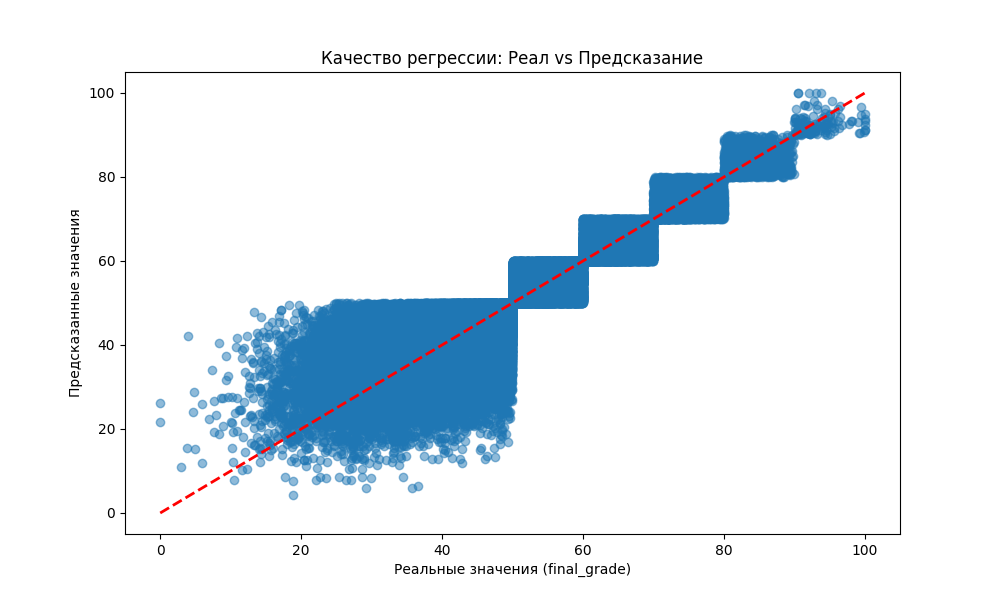
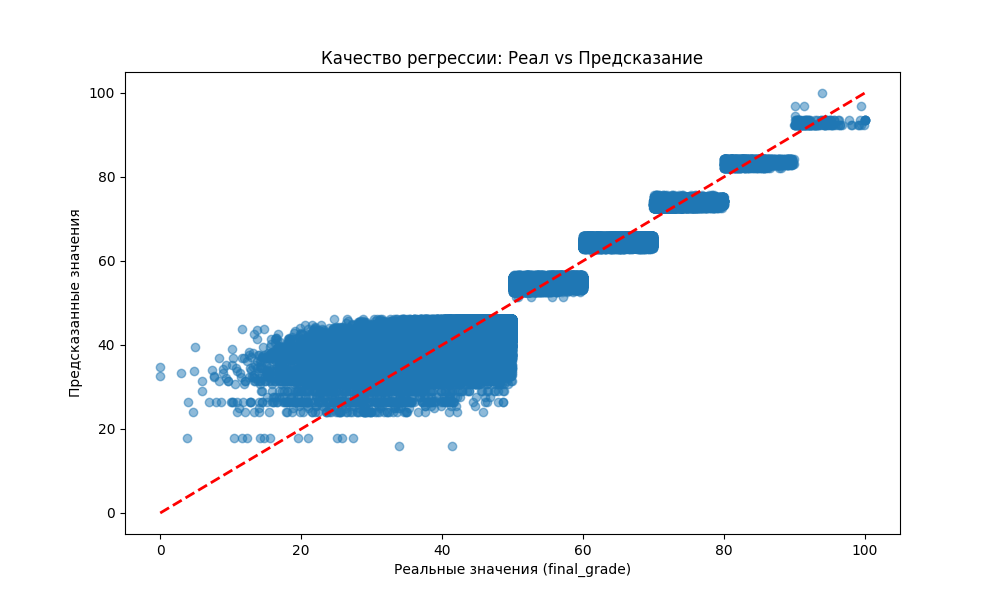
//

Changed region(s): [[0.155, 0.48, 0.589, 0.84], [0.558, 0.15, 0.868, 0.39], [0.496, 0.42, 0.682, 0.45]]

diff --git a/classification_lab3.py b/classification_lab3.py
@@ -33,7 +33,7 @@ fpr, tpr, thresholds = roc_curve(y_test, y_proba[:, 1])
 auc_metric = auc(fpr, tpr) """
 
 # 2. Выбираем класс, который хотим проверить (например, под индексом 0)
-class_index = 8
+class_index = 0
 class_name = dt_classifier_model.classes_[class_index]
 
 # 3. Создаем временную метку: 1 если это наш класс, 0 если любой другой из 15

diff --git a/regression_lab3.py b/regression_lab3.py
@@ -18,7 +18,7 @@ y=df["final_grade"]
 X_train, X_test, y_train, y_test = train_test_split(X, y, test_size=0.4, random_state=42)
 
 #модель
-dt_regressor_model = DecisionTreeRegressor()
+dt_regressor_model = DecisionTreeRegressor(max_depth=8)
 dt_regressor_model.fit(X_train, y_train)
 y_pred_test=dt_regressor_model.predict(X_test)
 
